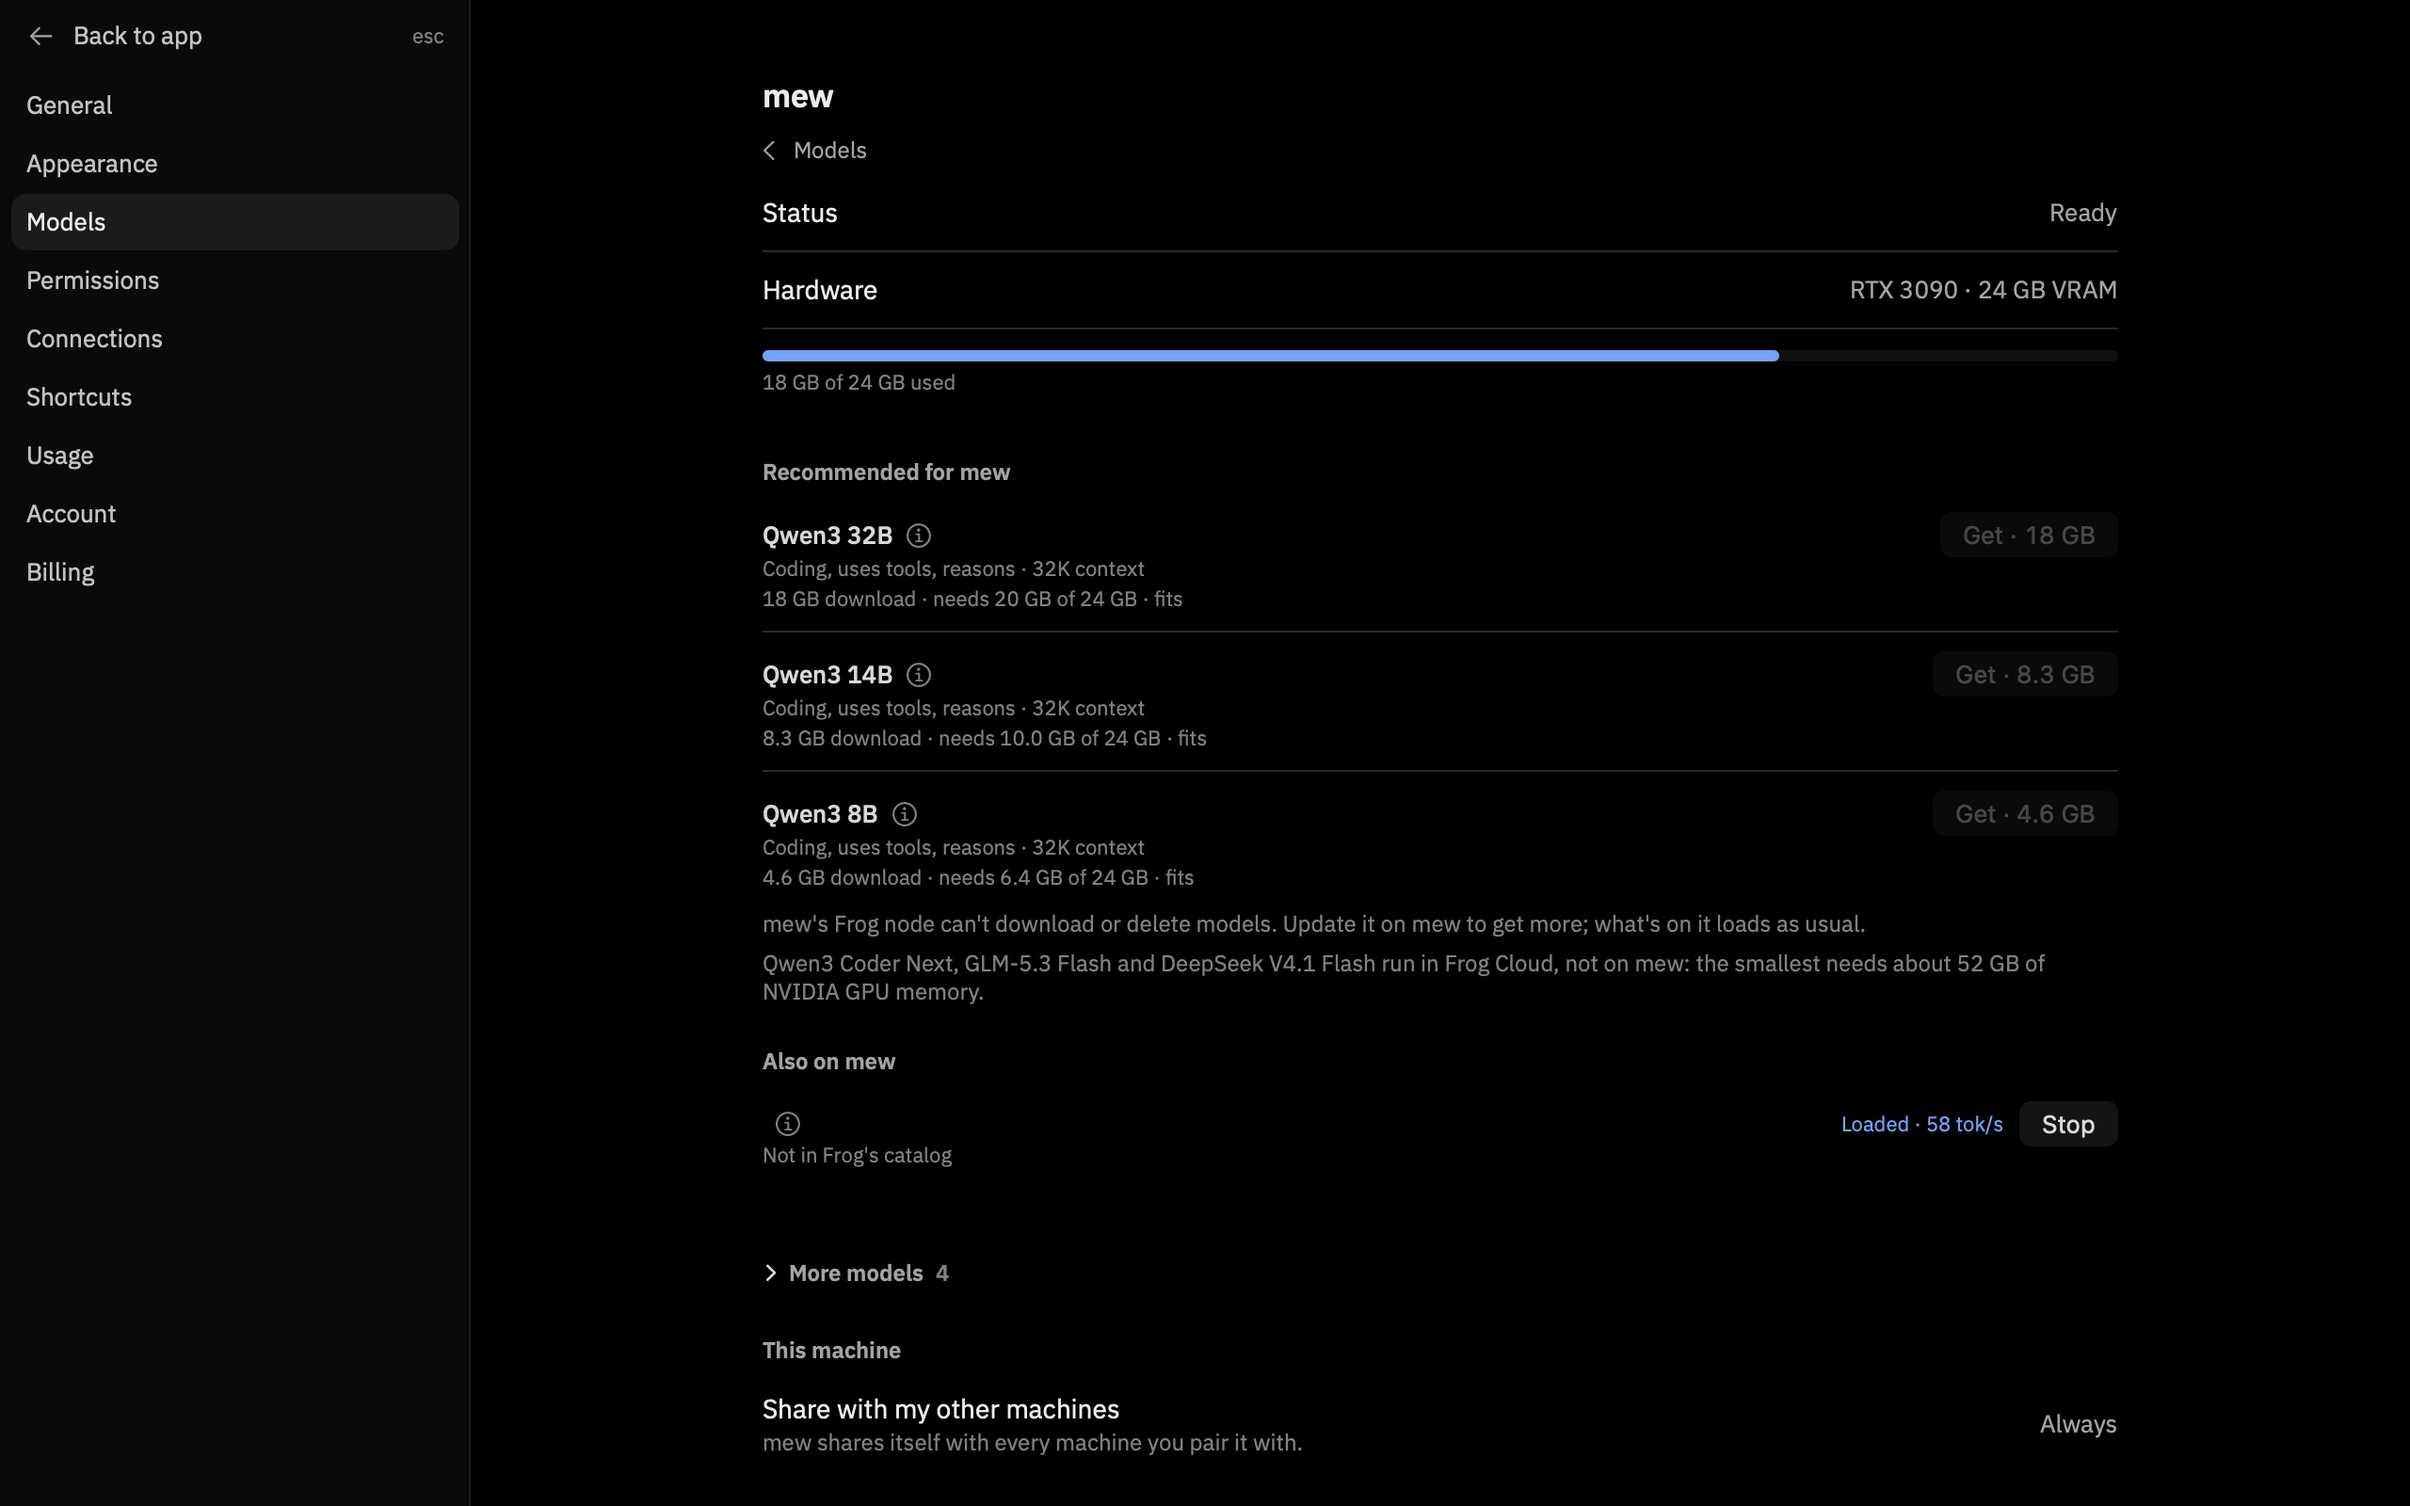
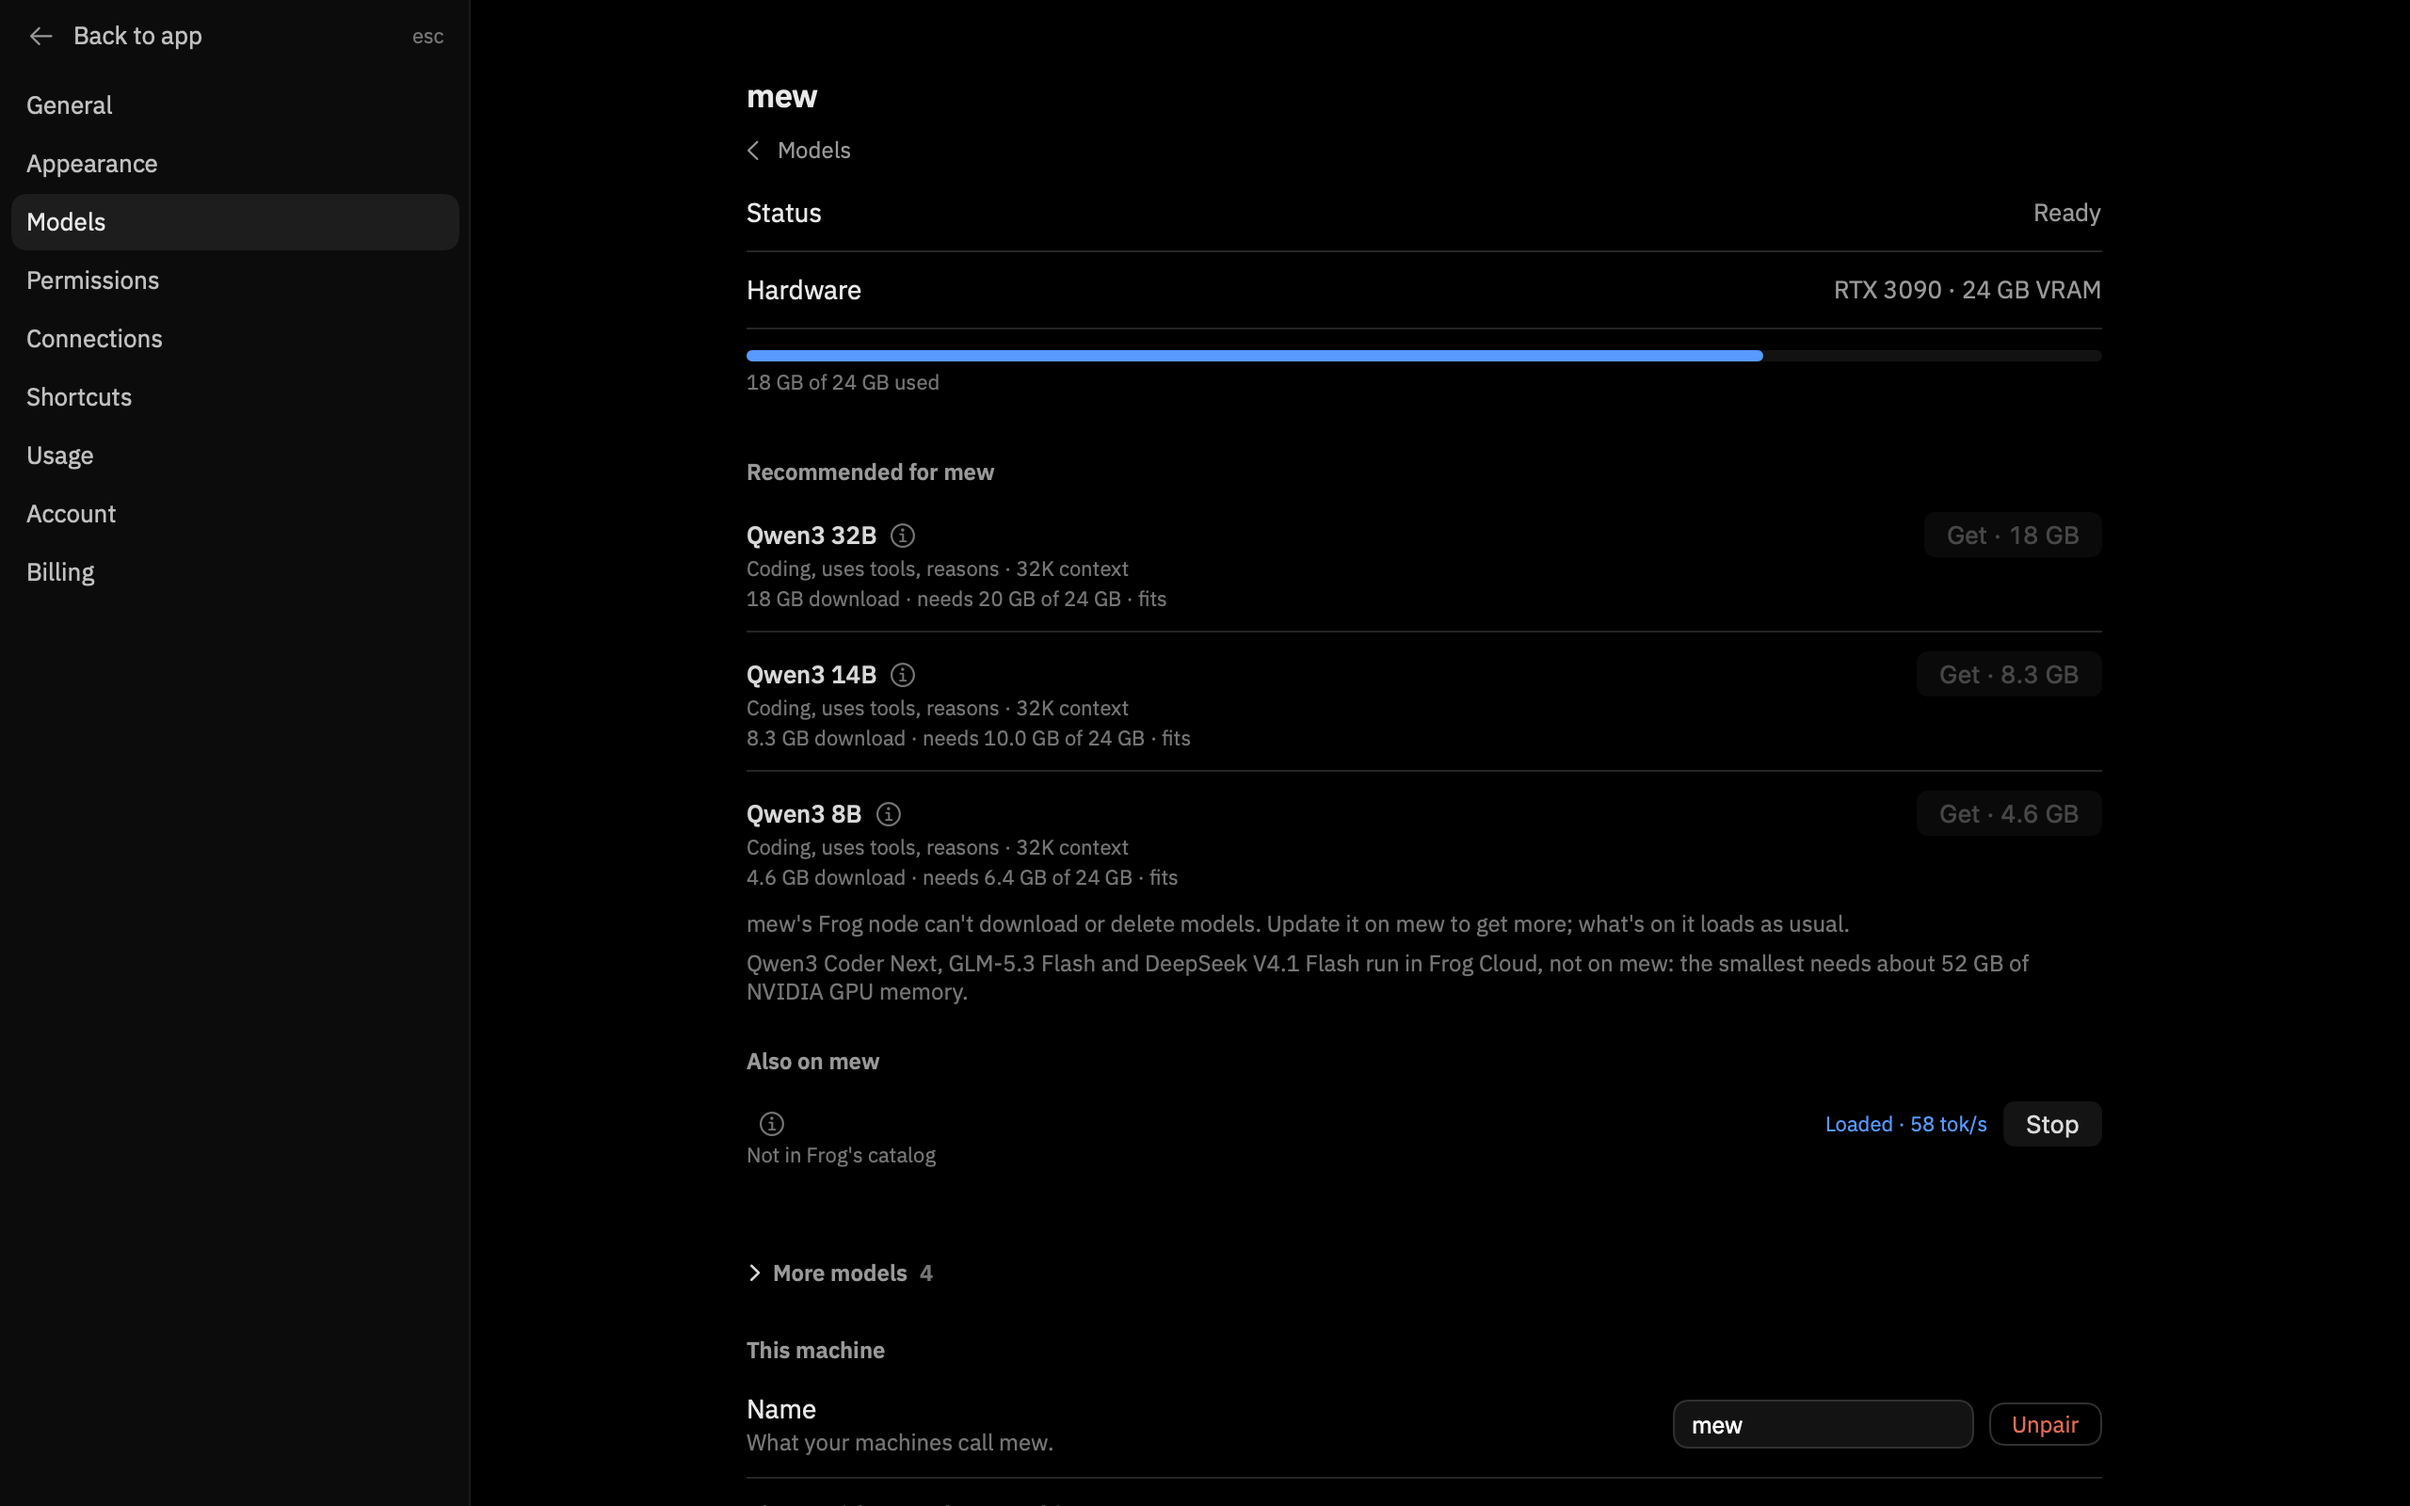
mac: settings links reuse the open window; segment names; one machine label
Found launching the app:
- frog://settings/<section> opened a second, empty window as well as switching
  the open one: no window claimed the link, so SwiftUI made one. RootView now
  claims settings links and shows the section itself.
- VoiceOver read every segment of a segmented control as the row's name
  ("Period", "Period"); each option now reads as itself.
- A machine's page had a 'Name' label over a 'Name' row; its name and sharing
  now sit under one 'This Mac' / 'This machine' label.

diff --git a/apps/macos/Frog/Settings/SettingsModelRows.swift b/apps/macos/Frog/Settings/SettingsModelRows.swift
@@ -192,11 +192,9 @@ struct MachineSettingsPage: View {
                     if d.totalBytes > 0 { MachineMemoryBar(device: d).padding(.vertical, SettingsLook.rowPad) }
                 }
                 MachineModelsSections(device: d, devices: devices)
-                let rows = catalog.macRows(in: "models", page: "machine")
-                ForEach(Array(Set(rows.compactMap(\.group)).sorted().reversed()), id: \.self) { g in
-                    SettingsGroupLabel(text: g == "This Mac" && d.role != .thisMac ? "This machine" : g == "Machines" ? "Name" : g)
-                    SettingsRows { ForEach(rows.filter { $0.group == g }) { SettingsBindings.view(for: $0) } }
-                }
+                // Its name and sharing, under one label.
+                SettingsGroupLabel(text: d.role == .thisMac ? "This Mac" : "This machine")
+                SettingsRows { ForEach(catalog.macRows(in: "models", page: "machine")) { SettingsBindings.view(for: $0) } }
             }
             .environment(\.settingsMachine, deviceID)
             // Balanced: Devices counts its watchers.

diff --git a/apps/macos/Frog/FrogApp.swift b/apps/macos/Frog/FrogApp.swift
@@ -123,6 +123,12 @@ struct RootView: View {
         .contentShape(.rect)
         .gesture(WindowDragGesture())
         .allowsWindowActivationEvents(true)
+        // frog://settings/<section> lands in a window that's already open: without a window
+        // claiming it, SwiftUI opens a new, empty one for every link.
+        .handlesExternalEvents(preferring: ["settings"], allowing: ["settings"])
+        .onOpenURL { url in
+            if let section = SettingsCatalog.bundled.section(for: url) { panes?.showSettings(section) }
+        }
         .onAppear {
             // Folders handed over (a second copy, Finder, the Dock) open in a window of their
             // own; the app-level listener reaches windows through the latest openWindow.

diff --git a/apps/macos/Frog/Settings/SettingsControls.swift b/apps/macos/Frog/Settings/SettingsControls.swift
@@ -159,6 +159,8 @@ struct FrogSegmented: View {
         .padding(2)
         .background(Tokens.raised, in: .rect(cornerRadius: 9))
         .fixedSize()
+        // A group named for the row, each option by its own name ("Light", not "Theme").
+        .accessibilityElement(children: .contain)
         .accessibilityLabel(label)
     }
 }
